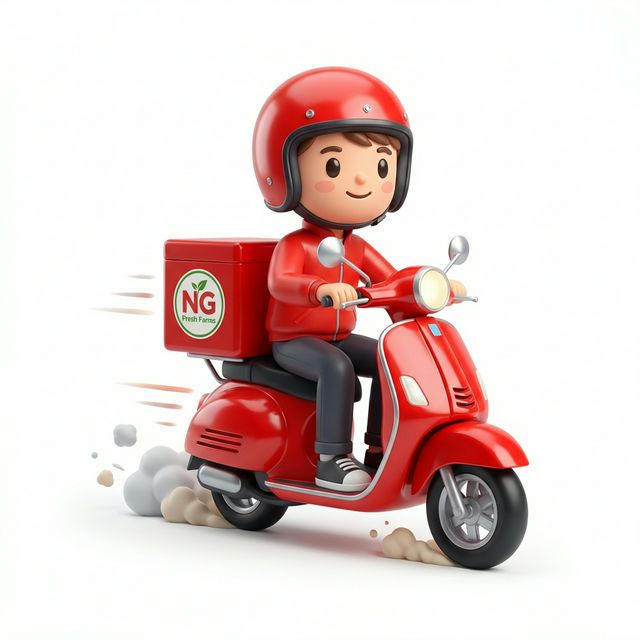
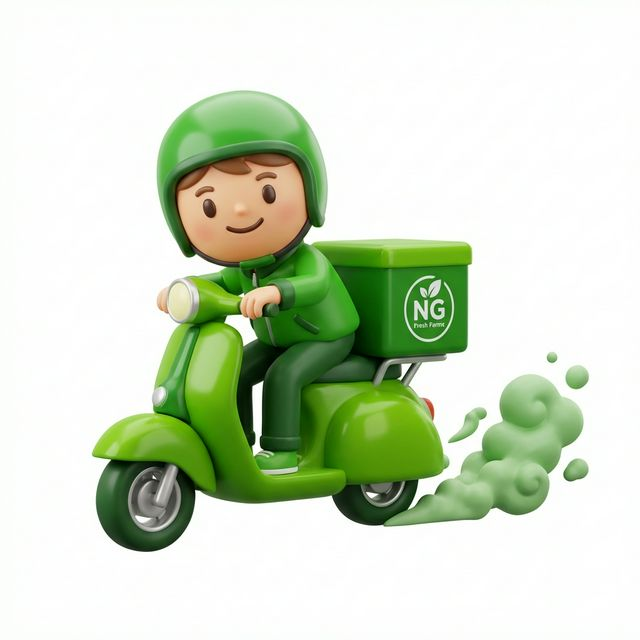
feat: Update UI colors from red to green, adjust tab bar and search bar styling, and refine cart item quantity controls.

diff --git a/app/index.jsx b/app/index.jsx
@@ -45,7 +45,7 @@ const TabButton = ({
     <Pressable
       onPress={onPress}
       className={`flex-1 items-center justify-center ${
-        isSmallScreen ? "py-1.5" : "py-2"
+        isSmallScreen ? "py-1" : "py-1.5"
       }`}
     >
       <Reanimated.View
@@ -70,11 +70,11 @@ export default function Index() {
           headerShown: false,
           tabBarStyle: {
             backgroundColor: "white",
-            height: isSmallScreen ? 60 : 65,
+            height: isSmallScreen ? 50 : 54, // Adjusted height for labels and icons
             borderTopWidth: 1,
             borderTopColor: "#f1f1f1",
-            paddingBottom: isSmallScreen ? 8 : 10,
-            paddingTop: 8,
+            paddingBottom: isSmallScreen ? 4 : 6,
+            paddingTop: 6,
             position: "absolute",
             left: 0,
             right: 0,
@@ -82,8 +82,8 @@ export default function Index() {
             elevation: 0, // Removing default shadow
             shadowOpacity: 0, // Removing iOS shadow
           },
-          tabBarActiveTintColor: "#d11243", // Licious red color
-          tabBarInactiveTintColor: "#4a4a4a",
+          tabBarActiveTintColor: "#d11243", // Restored Red active color
+          tabBarInactiveTintColor: "#666666",
           tabBarShowLabel: true,
           tabBarButton: (props) => <TabButton {...props} />,
           tabBarSafeAreaInset: { bottom: 0 },
@@ -97,14 +97,14 @@ export default function Index() {
               <Icon
                 type="material-community"
                 name={focused ? "home" : "home-outline"}
-                size={isSmallScreen ? 22 : 24}
+                size={22}
                 color={color}
               />
             ),
             tabBarLabel: ({ focused }) => (
               <Text
-                className={`text-[11px] mt-0.5 font-medium ${
-                  focused ? "text-[#d11243]" : "text-gray-600"
+                className={`text-[10px] mt-0.5 font-bold ${
+                  focused ? "text-[#d11243]" : "text-gray-500"
                 }`}
               >
                 Home
@@ -120,14 +120,14 @@ export default function Index() {
               <Icon
                 type="material-community"
                 name={focused ? "food-drumstick" : "food-drumstick-outline"}
-                size={isSmallScreen ? 22 : 24}
+                size={22}
                 color={color}
               />
             ),
             tabBarLabel: ({ focused }) => (
               <Text
-                className={`text-[11px] mt-0.5 font-medium ${
-                  focused ? "text-[#d11243]" : "text-gray-600"
+                className={`text-[10px] mt-0.5 font-bold ${
+                  focused ? "text-[#d11243]" : "text-gray-500"
                 }`}
               >
                 Products
@@ -143,14 +143,14 @@ export default function Index() {
               <Icon
                 type="material-community"
                 name={focused ? "account" : "account-outline"}
-                size={isSmallScreen ? 22 : 24}
+                size={22}
                 color={color}
               />
             ),
             tabBarLabel: ({ focused }) => (
               <Text
-                className={`text-[11px] mt-0.5 font-medium ${
-                  focused ? "text-[#d11243]" : "text-gray-600"
+                className={`text-[10px] mt-0.5 font-bold ${
+                  focused ? "text-[#d11243]" : "text-gray-500"
                 }`}
               >
                 Account
@@ -167,19 +167,16 @@ export default function Index() {
                 <Icon
                   type="material-community"
                   name={focused ? "cart" : "cart-outline"}
-                  size={isSmallScreen ? 22 : 24}
+                  size={22}
                   color={color}
                 />
-                {/* Cart badge - uncomment and connect to your cart state */}
-                {/* <View className="absolute -top-1 -right-2 bg-red-500 rounded-full w-4 h-4 items-center justify-center">
-                  <Text className="text-[10px] text-white font-bold">2</Text>
-                </View> */}
+                {/* Cart badge */}
               </View>
             ),
             tabBarLabel: ({ focused }) => (
               <Text
-                className={`text-[11px] mt-0.5 font-medium ${
-                  focused ? "text-[#d11243]" : "text-gray-600"
+                className={`text-[10px] mt-0.5 font-bold ${
+                  focused ? "text-[#d11243]" : "text-gray-500"
                 }`}
               >
                 Cart

diff --git a/components/Cart/CartPromoCode.js b/components/Cart/CartPromoCode.js
@@ -212,26 +212,26 @@ const CartPromoCode = ({
         className="flex-row items-center justify-between bg-white border border-gray-100 p-4 rounded-xl shadow-sm"
       >
         <View className="flex-row items-center">
-          <Tag size={20} color="#E23744" />
+          <Tag size={20} color="#16A34A" />
           <Text className="font-bold text-[15px] ml-3 text-gray-800">
             Use coupons to save more
           </Text>
         </View>
-        <ChevronRight size={20} color="#E23744" />
+        <ChevronRight size={20} color="#16A34A" />
       </TouchableOpacity>
 
       {/* Active Offer Banner */}
       {selectedOffer && (
-        <View className="bg-red-50 p-4 rounded-xl mt-3 border border-red-100">
+        <View className="bg-green-50 p-4 rounded-xl mt-3 border border-green-100">
           <View className="flex-row items-center justify-between mb-1">
             <View className="flex-row items-center flex-1">
-              <Gift size={18} color="#E23744" />
-              <Text className="text-red-700 font-bold ml-2 text-sm">
+              <Gift size={18} color="#16A34A" />
+              <Text className="text-green-700 font-bold ml-2 text-sm">
                 '{selectedOffer.promoCode}' applied!
               </Text>
             </View>
             <TouchableOpacity onPress={handleRemovePromo}>
-              <Text className="text-red-600 font-bold text-xs uppercase">Remove</Text>
+              <Text className="text-green-600 font-bold text-xs uppercase">Remove</Text>
             </TouchableOpacity>
           </View>
           <Text className="text-gray-600 text-[11px] ml-7">
@@ -256,7 +256,7 @@ const CartPromoCode = ({
             disabled={!promoCode.trim()}
             className="ml-3"
           >
-            <Text className={`font-bold text-[14px] ${promoCode.trim() ? "text-red-600" : "text-gray-300"}`}>
+            <Text className={`font-bold text-[14px] ${promoCode.trim() ? "text-green-600" : "text-gray-300"}`}>
               APPLY
             </Text>
           </TouchableOpacity>

diff --git a/components/Cart/Cart.js b/components/Cart/Cart.js
@@ -99,11 +99,11 @@ const Cart = () => {
               Home
             </Text>
             <ChevronDown size={16} color="#E23744" strokeWidth={3} />
-          </View>
+            </View>
           <Text className="text-[12px] text-gray-500 font-medium tracking-tight" numberOfLines={1}>
             123, Fresh Farms Street, NG Layout...
           </Text>
-        </TouchableOpacity>
+          </TouchableOpacity>
 
         <TouchableOpacity className="w-10 h-10 rounded-full bg-red-50 items-center justify-center border border-red-100 ml-2">
           <MapPin size={18} color="#E23744" strokeWidth={2.5} />
@@ -200,14 +200,14 @@ const Cart = () => {
         </>
       ) : (
         <View className="flex-1 items-center justify-center p-8">
-          <View className="w-24 h-24 bg-red-50 rounded-full items-center justify-center mb-6">
-            <ShoppingBag size={48} color="#E23744" />
+          <View className="w-24 h-24 bg-green-50 rounded-full items-center justify-center mb-6">
+            <ShoppingBag size={48} color="#16A34A" />
           </View>
           <Text className="text-xl font-bold text-gray-900">Your cart is empty</Text>
           <Text className="text-gray-500 text-center mt-2 leading-relaxed">
             Good food is always cooking! Go ahead, order some yummy items from the menu.
           </Text>
-          <TouchableOpacity className="mt-8 bg-red-600 px-8 py-3 rounded-xl">
+          <TouchableOpacity className="mt-8 bg-green-600 px-8 py-3 rounded-xl">
             <Text className="text-white font-bold text-base">Browse Menu</Text>
           </TouchableOpacity>
         </View>

diff --git a/components/Cart/CartItems.js b/components/Cart/CartItems.js
@@ -57,15 +57,15 @@ const CartItems = () => {
 
           {/* Right: Quantity & Price */}
           <View className="items-end">
-            <View className="bg-white border border-red-200 rounded-lg h-7 flex-row items-center shadow-sm shadow-black/5 min-w-[70px] justify-between mb-2">
+            <View className="bg-white border border-gray-200 rounded-lg h-7 flex-row items-center shadow-sm shadow-black/5 min-w-[70px] justify-between mb-2">
               <TouchableOpacity
                 onPress={() => handleQuantityChange(item, item.custQuantity - 1)}
                 className="w-6 items-center justify-center h-full"
               >
-                <Minus size={12} color="#E23744" strokeWidth={4} />
+                <Minus size={12} color="#1C1C1C" strokeWidth={4} />
               </TouchableOpacity>
               
-              <Text className="text-[12px] font-black text-red-600">
+              <Text className="text-[12px] font-black text-gray-900">
                 {item.custQuantity}
               </Text>
 
@@ -73,7 +73,7 @@ const CartItems = () => {
                 onPress={() => handleQuantityChange(item, item.custQuantity + 1)}
                 className="w-6 items-center justify-center h-full"
               >
-                <Plus size={12} color="#E23744" strokeWidth={4} />
+                <Plus size={12} color="#1C1C1C" strokeWidth={4} />
               </TouchableOpacity>
             </View>
             

diff --git a/components/Cart/CartSummary.js b/components/Cart/CartSummary.js
@@ -46,8 +46,8 @@ const CartSummary = ({
 
         {promoDiscount > 0 && (
           <View className="flex-row justify-between items-center mb-3">
-            <Text className="text-[14px] text-red-600 font-bold uppercase">Coupon Savings</Text>
-            <Text className="text-[14px] text-red-600 font-bold">
+            <Text className="text-[14px] text-green-600 font-bold uppercase">Coupon Savings</Text>
+            <Text className="text-[14px] text-green-600 font-bold">
               -₹{promoDiscount.toFixed(2)}
             </Text>
           </View>
@@ -62,8 +62,8 @@ const CartSummary = ({
       </View>
 
       {(discount > 0 || promoDiscount > 0) && (
-        <View className="mx-1 mt-4 flex-row items-center border border-red-100 bg-red-50/30 p-3 rounded-xl">
-          <Text className="text-[12px] text-red-700 font-bold tracking-tight">
+        <View className="mx-1 mt-4 flex-row items-center border border-green-100 bg-green-50/30 p-3 rounded-xl">
+          <Text className="text-[12px] text-green-700 font-bold tracking-tight">
             SAVED ₹{(discount + promoDiscount).toFixed(2)} WITH COUPONS & OFFERS
           </Text>
         </View>

diff --git a/components/Home/HomePage.js b/components/Home/HomePage.js
@@ -14,22 +14,23 @@ const HomePage = () => {
         showsVerticalScrollIndicator={false}
         contentContainerStyle={{ paddingBottom: 80 }}
       >
-        <View className="px-4">
-          <View className="mt-1">
-            <AddressHeader />
-          </View>
-          <View className="mt-2">
-            <SearchBar />
-          </View>
-          <View className="mt-3">
-            <Slideshow />
-          </View>
-          <View className="mt-5">
-            <CategoriesList />
-          </View>
-          <View className="mt-5">
-            <HomePageBanner />
-          </View>
+        <View className="px-4 mt-1">
+          <AddressHeader />
+        </View>
+        <View className="px-4 mt-2">
+          <SearchBar />
+        </View>
+        
+        {/* Full-width Carousel */}
+        <View className="mt-3">
+          <Slideshow />
+        </View>
+        
+        <View className="px-4 mt-5">
+          <CategoriesList />
+        </View>
+        <View className="px-4 mt-5">
+          <HomePageBanner />
         </View>
       </ScrollView>
     </SafeAreaView>

diff --git a/components/Home/SearchBar/SearchBar.js b/components/Home/SearchBar/SearchBar.js
@@ -5,14 +5,16 @@ import { TextInput, View } from "react-native";
 const SearchBar = () => {
   return (
     <View className="flex-row items-center bg-gray-100/70 px-4 py-1.5 rounded-xl border border-gray-200/50">
-      <Search size={16} color="#E23744" strokeWidth={2.5} />
+      <Search size={15} color="#E23744" strokeWidth={2.5} />
       <TextInput
-        className="flex-1 ml-2.5 text-gray-800 text-[13px] font-medium"
+        className="flex-1 ml-2.5 text-gray-800 text-[13px] font-medium py-0 h-8"
         placeholder="Search for 'Chicken Breast'"
         placeholderTextColor="#9ca3af"
+        includeFontPadding={false}
+        textAlignVertical="center"
       />
-      <View className="w-[1px] h-4 bg-gray-300 mx-2" />
-      <Mic size={16} color="#E23744" strokeWidth={2.5} />
+      <View className="w-[1px] h-3.5 bg-gray-300 mx-2" />
+      <Mic size={15} color="#E23744" strokeWidth={2.5} />
     </View>
   );
 };

diff --git a/components/Cart/CartFooter.js b/components/Cart/CartFooter.js
@@ -8,10 +8,10 @@ const CartFooter = ({ totalPayable, itemCount }) => {
   return (
     <View className="bg-white border-t border-gray-100">
       {/* Main CTA */}
-      <View className="px-4 py-4 pb-24">
+      <View className="px-4 py-4 pb-[80px]">
         <TouchableOpacity
           activeOpacity={0.9}
-          className="bg-[#E23744] rounded-xl h-14 flex-row items-center px-5 justify-between shadow-lg shadow-red-200"
+          className="bg-[#16A34A] rounded-xl h-14 flex-row items-center px-5 justify-between shadow-lg shadow-green-200"
         >
           <View>
             <Text className="text-white font-black text-[18px]">

diff --git a/components/Home/Slideshow/Slideshow.js b/components/Home/Slideshow/Slideshow.js
@@ -33,9 +33,9 @@ const Slideshow = () => {
   }, []);
 
   return (
-    <View className="h-48 px-4 py-2">
+    <View className="h-48 py-2">
       <Animated.View
-        className="w-full h-full rounded-lg overflow-hidden"
+        className="w-full h-full overflow-hidden"
         style={{ opacity: fadeAnim }}
       >
         <Image
